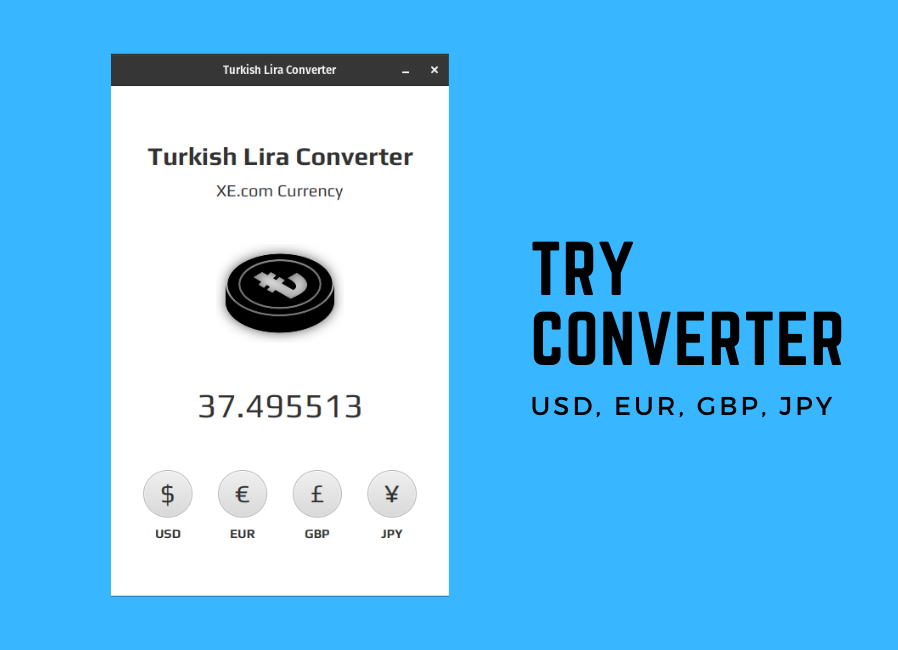
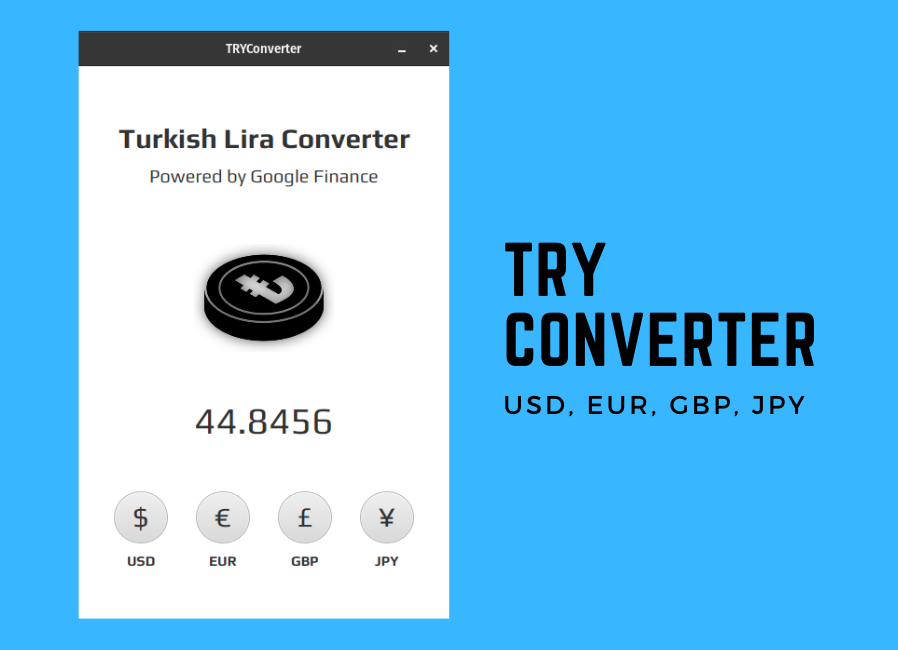
final 1.0

diff --git a/Main.java b/Main.java
@@ -46,7 +46,7 @@ public class Main extends Application {
         image_view.setPreserveRatio(true);
         
         // TL Label
-        Label tl_label = new Label("Click");
+        Label tl_label = new Label("choose one");
         tl_label.setFont(font2);
         
         HBox tl_label_box = new HBox(tl_label);
@@ -193,7 +193,7 @@ public class Main extends Application {
         root.setStyle("-fx-background-color: white;");
         
         Scene scene = new Scene(root,400, 600);
-        primaryStage.setTitle("Turkish Lira Converter");
+        primaryStage.setTitle("TRYConverter");
         primaryStage.getIcons().add(new Image("src/lira.png"));
         primaryStage.setResizable(false);
         primaryStage.setScene(scene);

diff --git a/README.md b/README.md
@@ -1,6 +1,4 @@
 # Turkish Lira Converter ₺
 Convert TRY to USD, EUR, GBP, JPY with just one click.
 
-
-
 ![banner](https://github.com/user-attachments/assets/10ecc94c-0878-4f58-b4f3-5744a65ef624)
